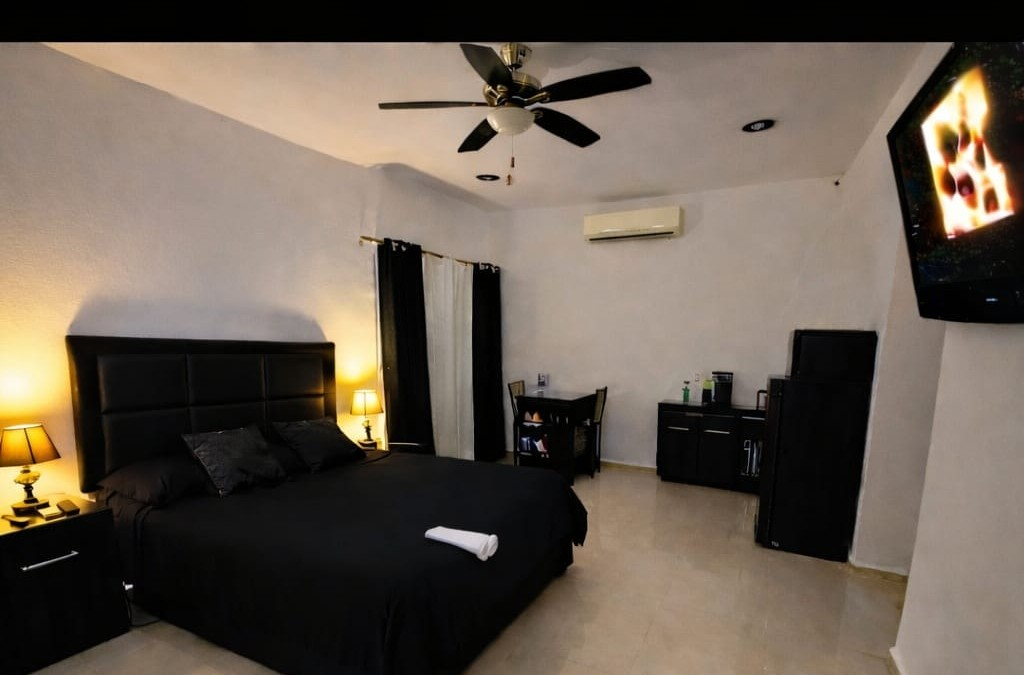
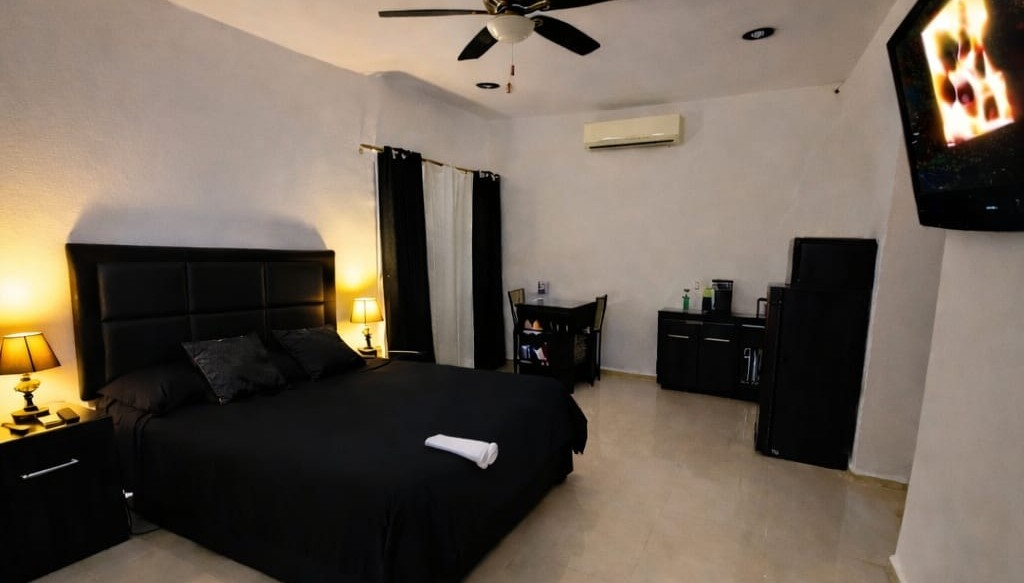
Add brand divider separator, fix depa-51 crop, rename to Davish's House
- Extracted X-cross divider from logo PDF as section separator
- Added divider between all major sections
- Re-cropped depa-51 to remove black bar
- Renamed all instances to "Davish's House"
- Added company motto "IS NEVER WRONG"

diff --git a/site/index.html b/site/index.html
@@ -11,10 +11,10 @@
     </script>
     <meta charset="UTF-8">
     <meta name="viewport" content="width=device-width, initial-scale=1.0">
-    <title>Davish House Apartments | Departamentos Amueblados en Merida, Yucatan | Renta Sin Deposito</title>
+    <title>Davish's House Apartments | Departamentos Amueblados en Merida, Yucatan | Renta Sin Deposito</title>
     <meta name="description" content="Departamentos amueblados en Merida, Yucatan. Sin deposito, sin aval. Renta por horas, dias o meses en La Florida, Merida. Netflix, WiFi, AC incluidos. Furnished apartments in Merida, Yucatan, Mexico.">
-    <meta name="keywords" content="departamentos amueblados Merida, renta departamentos Merida Yucatan, apartments Merida, furnished apartments Yucatan, renta sin deposito Merida, departamentos equipados Merida, Davish House, alquiler Merida, short term rental Merida, renta por dia Merida, Mérida Yucatán, departamentos La Florida Merida, renta mensual Merida, hospedaje Merida Yucatan, departamento amueblado sin aval Merida, renta temporal Merida, suites amuebladas Merida, departamentos con Netflix Merida, alojamiento Merida centro, renta cuartos Merida">
-    <meta name="author" content="Davish House Apartments - Merida, Yucatan">
+    <meta name="keywords" content="departamentos amueblados Merida, renta departamentos Merida Yucatan, apartments Merida, furnished apartments Yucatan, renta sin deposito Merida, departamentos equipados Merida, Davish's House, alquiler Merida, short term rental Merida, renta por dia Merida, Mérida Yucatán, departamentos La Florida Merida, renta mensual Merida, hospedaje Merida Yucatan, departamento amueblado sin aval Merida, renta temporal Merida, suites amuebladas Merida, departamentos con Netflix Merida, alojamiento Merida centro, renta cuartos Merida">
+    <meta name="author" content="Davish's House Apartments - Merida, Yucatan">
     <meta name="robots" content="index, follow">
     <meta name="geo.region" content="MX-YUC">
     <meta name="geo.placename" content="Merida, Yucatan">
@@ -36,15 +36,15 @@
     <link rel="alternate" hreflang="x-default" href="https://davish.pro/">
 
     <!-- Open Graph -->
-    <meta property="og:title" content="Davish House Apartments | Departamentos Amueblados en Merida, Yucatan">
+    <meta property="og:title" content="Davish's House Apartments | Departamentos Amueblados en Merida, Yucatan">
     <meta property="og:description" content="Departamentos amueblados y equipados en Merida, Yucatan. Sin deposito, sin aval. Renta por horas, dias o meses con Netflix y WiFi incluido.">
     <meta property="og:type" content="website">
     <meta property="og:url" content="https://davish.pro/">
     <meta property="og:image" content="https://davish.pro/img/header.png">
-    <meta property="og:image:alt" content="Davish House Apartments - Departamentos amueblados en Merida, Yucatan">
+    <meta property="og:image:alt" content="Davish's House Apartments - Departamentos amueblados en Merida, Yucatan">
     <meta property="og:image:width" content="1200">
     <meta property="og:image:height" content="630">
-    <meta property="og:site_name" content="Davish House Apartments">
+    <meta property="og:site_name" content="Davish's House Apartments">
     <meta property="og:locale" content="es_MX">
     <meta property="og:locale:alternate" content="en_US">
     <meta property="og:locale:alternate" content="de_DE">
@@ -53,7 +53,7 @@
 
     <!-- Twitter Card -->
     <meta name="twitter:card" content="summary_large_image">
-    <meta name="twitter:title" content="Davish House Apartments | Merida, Yucatan">
+    <meta name="twitter:title" content="Davish's House Apartments | Merida, Yucatan">
     <meta name="twitter:description" content="Departamentos amueblados en Merida, Yucatan. Sin deposito, sin aval. Renta por horas, dias o meses.">
     <meta name="twitter:image" content="https://davish.pro/img/header.png">
 
@@ -62,7 +62,7 @@
     {
         "@context": "https://schema.org",
         "@type": "LodgingBusiness",
-        "name": "Davish House Apartments",
+        "name": "Davish's House Apartments",
         "alternateName": "Davish's House Apartment La Florida Merida",
         "description": "Departamentos amueblados y equipados en Merida, Yucatan, Mexico. Sin deposito, sin aval. Renta por horas, dias o meses. Netflix, WiFi, aire acondicionado incluidos.",
         "url": "https://davish.pro",
@@ -275,6 +275,16 @@
             color: #aaa;
             font-size: 1.05rem;
             line-height: 1.7;
+        }
+
+        /* Divider */
+        .section-divider {
+            display: block;
+            margin: 0 auto;
+            width: 220px;
+            height: auto;
+            opacity: 0.7;
+            padding: 10px 0;
         }
 
         /* Section titles */
@@ -750,7 +760,7 @@
     <section class="hero">
         <div class="container">
             <div class="hero-content">
-                <h1>Davish House Apartments <span style="display:block;font-size:0.45em;letter-spacing:1px;color:#ccc;font-weight:400;margin-top:8px;">Merida, Yucatan, Mexico</span></h1>
+                <h1>Davish's House Apartments <span style="display:block;font-size:0.45em;letter-spacing:1px;color:#ccc;font-weight:400;margin-top:8px;">Merida, Yucatan, Mexico</span><span style="display:block;font-size:0.3em;letter-spacing:2px;color:var(--gold);font-weight:600;margin-top:6px;font-style:italic;">IS NEVER WRONG</span></h1>
                 <p data-i18n="hero_subtitle">Departamentos amueblados y equipados en Merida, Yucatan. Tu nuevo hogar sin complicaciones.</p>
                 <div class="badge-features">
                     <span><i class="bi bi-shield-check"></i> <span data-i18n="badge_deposit">Sin Deposito</span></span>
@@ -770,6 +780,7 @@
         </div>
     </section>
 
+    <img src="img/divider.png" class="section-divider" alt="">
     <!-- About Owner -->
     <section id="sobre-mi" class="about-owner">
         <div class="container">
@@ -789,6 +800,7 @@
         </div>
     </section>
 
+    <img src="img/divider.png" class="section-divider" alt="">
     <!-- Apartments -->
     <section id="departamentos">
         <div class="section-title">
@@ -803,7 +815,7 @@
                 <!-- Depa #51 -->
                 <div class="col-lg-4 col-md-6">
                     <div class="depa-card">
-                        <img src="img/depa-51.jpg" class="card-img-top" alt="Departamento 51 amueblado en Merida Yucatan - Davish House">
+                        <img src="img/depa-51.jpg" class="card-img-top" alt="Departamento 51 amueblado en Merida Yucatan - Davish's House">
                         <div class="card-body">
                             <div class="depa-number"><span data-i18n="depa_label">Departamento</span> #51</div>
                             <div class="amenities">
@@ -838,7 +850,7 @@
                 <!-- Depa #52 -->
                 <div class="col-lg-4 col-md-6">
                     <div class="depa-card">
-                        <img src="img/depa-52.jpg" class="card-img-top" alt="Departamento 52 con Netflix en Merida Yucatan - Davish House">
+                        <img src="img/depa-52.jpg" class="card-img-top" alt="Departamento 52 con Netflix en Merida Yucatan - Davish's House">
                         <div class="card-body">
                             <div class="depa-number"><span data-i18n="depa_label">Departamento</span> #52</div>
                             <div class="amenities">
@@ -874,7 +886,7 @@
                 <!-- Depa #53 -->
                 <div class="col-lg-4 col-md-6">
                     <div class="depa-card">
-                        <img src="img/depa-53.jpg" class="card-img-top" alt="Departamento 53 amueblado en Merida Yucatan - Davish House">
+                        <img src="img/depa-53.jpg" class="card-img-top" alt="Departamento 53 amueblado en Merida Yucatan - Davish's House">
                         <div class="card-body">
                             <div class="depa-number"><span data-i18n="depa_label">Departamento</span> #53</div>
                             <div class="amenities">
@@ -909,7 +921,7 @@
                 <!-- Depa #54 -->
                 <div class="col-lg-4 col-md-6">
                     <div class="depa-card">
-                        <img src="img/depa-54.jpg" class="card-img-top" alt="Departamento 54 con cocina en Merida Yucatan - Davish House">
+                        <img src="img/depa-54.jpg" class="card-img-top" alt="Departamento 54 con cocina en Merida Yucatan - Davish's House">
                         <div class="card-body">
                             <div class="depa-number"><span data-i18n="depa_label">Departamento</span> #54</div>
                             <div class="amenities">
@@ -945,7 +957,7 @@
                 <!-- Depa #57 -->
                 <div class="col-lg-4 col-md-6">
                     <div class="depa-card">
-                        <img src="img/depa-57.jpg" class="card-img-top" alt="Departamento 57 dos camas en Merida Yucatan - Davish House">
+                        <img src="img/depa-57.jpg" class="card-img-top" alt="Departamento 57 dos camas en Merida Yucatan - Davish's House">
                         <div class="card-body">
                             <div class="depa-number"><span data-i18n="depa_label">Departamento</span> #57</div>
                             <div class="amenities">
@@ -981,7 +993,7 @@
                 <!-- Depa #58 -->
                 <div class="col-lg-4 col-md-6">
                     <div class="depa-card">
-                        <img src="img/depa-58.jpg" class="card-img-top" alt="Departamento 58 con cocineta en Merida Yucatan - Davish House">
+                        <img src="img/depa-58.jpg" class="card-img-top" alt="Departamento 58 con cocineta en Merida Yucatan - Davish's House">
                         <div class="card-body">
                             <div class="depa-number"><span data-i18n="depa_label">Departamento</span> #58</div>
                             <div class="amenities">
@@ -1016,7 +1028,7 @@
                 <!-- Depa #59 -->
                 <div class="col-lg-4 col-md-6">
                     <div class="depa-card">
-                        <img src="img/depa-59.jpg" class="card-img-top" alt="Departamento 59 con Netflix en Merida Yucatan - Davish House">
+                        <img src="img/depa-59.jpg" class="card-img-top" alt="Departamento 59 con Netflix en Merida Yucatan - Davish's House">
                         <div class="card-body">
                             <div class="depa-number"><span data-i18n="depa_label">Departamento</span> #59</div>
                             <div class="amenities">
@@ -1051,7 +1063,7 @@
                 <!-- Depa #64 -->
                 <div class="col-lg-4 col-md-6">
                     <div class="depa-card">
-                        <img src="img/depa-64.jpg" class="card-img-top" alt="Departamento 64 amueblado en Merida Yucatan - Davish House">
+                        <img src="img/depa-64.jpg" class="card-img-top" alt="Departamento 64 amueblado en Merida Yucatan - Davish's House">
                         <div class="card-body">
                             <div class="depa-number"><span data-i18n="depa_label">Departamento</span> #64</div>
                             <div class="amenities">
@@ -1087,6 +1099,7 @@
         </div>
     </section>
 
+    <img src="img/divider.png" class="section-divider" alt="">
     <!-- Features -->
     <section id="beneficios" class="features">
         <div class="container">
@@ -1127,6 +1140,7 @@
         </div>
     </section>
 
+    <img src="img/divider.png" class="section-divider" alt="">
     <!-- Policies -->
     <section class="policies-section">
         <div class="container">
@@ -1162,6 +1176,7 @@
         </div>
     </section>
 
+    <img src="img/divider.png" class="section-divider" alt="">
     <!-- Location -->
     <section id="ubicacion" class="location-section">
         <div class="container">
@@ -1181,6 +1196,7 @@
         </div>
     </section>
 
+    <img src="img/divider.png" class="section-divider" alt="">
     <!-- CTA -->
     <section id="reservar" class="cta-section">
         <div class="container">
@@ -1199,7 +1215,7 @@
             <a href="https://www.instagram.com/davishshouse" target="_blank" style="color:var(--gold);font-size:1.5rem;margin:0 10px;" title="Instagram"><i class="bi bi-instagram"></i></a>
             <a href="https://wa.me/529993982548" target="_blank" style="color:var(--gold);font-size:1.5rem;margin:0 10px;" title="WhatsApp"><i class="bi bi-whatsapp"></i></a>
         </p>
-        <p>&copy; 2026 Davish House Apartments. <span data-i18n="footer_rights">Todos los derechos reservados.</span></p>
+        <p>&copy; 2026 Davish's House Apartments. <span data-i18n="footer_rights">Todos los derechos reservados.</span></p>
     </footer>
 
     <!-- Back to Top -->
@@ -1238,7 +1254,7 @@
                 hero_cta: 'Reserva por WhatsApp',
                 catalog_btn: 'Ver Catalogo',
                 owner_role: 'Fundador & Propietario',
-                owner_bio: 'Bienvenido a Davish House Apartments. Me dedico a ofrecer departamentos de calidad, completamente amueblados y equipados, para que te sientas como en casa desde el primer dia. Sin deposito, sin aval, sin complicaciones \u2014 asi de simple. Cada departamento cuenta con Smart TV con Netflix, WiFi, y todo lo que necesitas para una estancia comoda.',
+                owner_bio: 'Bienvenido a Davish's House Apartments. Me dedico a ofrecer departamentos de calidad, completamente amueblados y equipados, para que te sientas como en casa desde el primer dia. Sin deposito, sin aval, sin complicaciones \u2014 asi de simple. Cada departamento cuenta con Smart TV con Netflix, WiFi, y todo lo que necesitas para una estancia comoda.',
                 owner_cta: 'Habla conmigo directo',
                 section_apartments: 'Nuestros Departamentos',
                 section_apartments_sub: 'Elige el que mejor se adapte a tus necesidades',
@@ -1287,9 +1303,9 @@
                 location_title: 'Ubicacion',
                 location_map: 'Ver en Google Maps',
                 footer_rights: 'Todos los derechos reservados.',
-                wa_general: 'Hola, me interesa rentar un departamento en Davish House Apartments en Merida. \u00bfMe podrian dar mas informacion?',
-                wa_owner: 'Hola Alejandro, me interesa rentar un departamento en Davish House Apartments en Merida. \u00bfMe podrias dar mas informacion?',
-                wa_depa: 'Hola, me interesa el Departamento #{n} en Davish House Apartments, Merida. \u00bfEsta disponible?'
+                wa_general: 'Hola, me interesa rentar un departamento en Davish's House Apartments en Merida. \u00bfMe podrian dar mas informacion?',
+                wa_owner: 'Hola Alejandro, me interesa rentar un departamento en Davish's House Apartments en Merida. \u00bfMe podrias dar mas informacion?',
+                wa_depa: 'Hola, me interesa el Departamento #{n} en Davish's House Apartments, Merida. \u00bfEsta disponible?'
             },
             en: {
                 nav_about: 'About Me',
@@ -1354,9 +1370,9 @@
                 location_title: 'Location',
                 location_map: 'View on Google Maps',
                 footer_rights: 'All rights reserved.',
-                wa_general: 'Hi, I\'m interested in renting an apartment at Davish House Apartments in Merida. Could you give me more information?',
-                wa_owner: 'Hi Alejandro, I\'m interested in renting an apartment at Davish House Apartments in Merida. Could you give me more information?',
-                wa_depa: 'Hi, I\'m interested in Apartment #{n} at Davish House Apartments, Merida. Is it available?'
+                wa_general: 'Hi, I\'m interested in renting an apartment at Davish's House Apartments in Merida. Could you give me more information?',
+                wa_owner: 'Hi Alejandro, I\'m interested in renting an apartment at Davish's House Apartments in Merida. Could you give me more information?',
+                wa_depa: 'Hi, I\'m interested in Apartment #{n} at Davish's House Apartments, Merida. Is it available?'
             },
             de: {
                 nav_about: '\u00dcber Mich',
@@ -1370,7 +1386,7 @@
                 hero_cta: '\u00dcber WhatsApp buchen',
                 catalog_btn: 'Katalog ansehen',
                 owner_role: 'Gr\u00fcnder & Eigent\u00fcmer',
-                owner_bio: 'Willkommen bei Davish House Apartments. Ich widme mich dem Angebot von hochwertigen Wohnungen, komplett m\u00f6bliert und ausgestattet, damit du dich vom ersten Tag an wie zu Hause f\u00fchlst. Keine Kaution, kein B\u00fcrge, keine Komplikationen \u2014 so einfach ist das. Jede Wohnung verf\u00fcgt \u00fcber einen Smart TV mit Netflix, WLAN und alles, was du f\u00fcr einen komfortablen Aufenthalt brauchst.',
+                owner_bio: 'Willkommen bei Davish's House Apartments. Ich widme mich dem Angebot von hochwertigen Wohnungen, komplett m\u00f6bliert und ausgestattet, damit du dich vom ersten Tag an wie zu Hause f\u00fchlst. Keine Kaution, kein B\u00fcrge, keine Komplikationen \u2014 so einfach ist das. Jede Wohnung verf\u00fcgt \u00fcber einen Smart TV mit Netflix, WLAN und alles, was du f\u00fcr einen komfortablen Aufenthalt brauchst.',
                 owner_cta: 'Sprich direkt mit mir',
                 section_apartments: 'Unsere Wohnungen',
                 section_apartments_sub: 'W\u00e4hle die Wohnung, die am besten zu dir passt',
@@ -1421,9 +1437,9 @@
                 location_title: 'Standort',
                 location_map: 'Auf Google Maps ansehen',
                 footer_rights: 'Alle Rechte vorbehalten.',
-                wa_general: 'Hallo, ich interessiere mich f\u00fcr eine Wohnung bei Davish House Apartments in Merida. K\u00f6nnten Sie mir mehr Informationen geben?',
-                wa_owner: 'Hallo Alejandro, ich interessiere mich f\u00fcr eine Wohnung bei Davish House Apartments in Merida. K\u00f6nntest du mir mehr Informationen geben?',
-                wa_depa: 'Hallo, ich interessiere mich f\u00fcr Wohnung #{n} bei Davish House Apartments, Merida. Ist sie verf\u00fcgbar?'
+                wa_general: 'Hallo, ich interessiere mich f\u00fcr eine Wohnung bei Davish's House Apartments in Merida. K\u00f6nnten Sie mir mehr Informationen geben?',
+                wa_owner: 'Hallo Alejandro, ich interessiere mich f\u00fcr eine Wohnung bei Davish's House Apartments in Merida. K\u00f6nntest du mir mehr Informationen geben?',
+                wa_depa: 'Hallo, ich interessiere mich f\u00fcr Wohnung #{n} bei Davish's House Apartments, Merida. Ist sie verf\u00fcgbar?'
             },
             it: {
                 nav_about: 'Chi Sono',
@@ -1437,7 +1453,7 @@
                 hero_cta: 'Prenota via WhatsApp',
                 catalog_btn: 'Vedi Catalogo',
                 owner_role: 'Fondatore & Proprietario',
-                owner_bio: 'Benvenuto a Davish House Apartments. Mi dedico ad offrire appartamenti di qualit\u00e0, completamente arredati e attrezzati, per farti sentire a casa dal primo giorno. Senza deposito, senza garante, senza complicazioni \u2014 \u00e8 cos\u00ec semplice. Ogni appartamento dispone di Smart TV con Netflix, WiFi e tutto ci\u00f2 di cui hai bisogno per un soggiorno confortevole.',
+                owner_bio: 'Benvenuto a Davish's House Apartments. Mi dedico ad offrire appartamenti di qualit\u00e0, completamente arredati e attrezzati, per farti sentire a casa dal primo giorno. Senza deposito, senza garante, senza complicazioni \u2014 \u00e8 cos\u00ec semplice. Ogni appartamento dispone di Smart TV con Netflix, WiFi e tutto ci\u00f2 di cui hai bisogno per un soggiorno confortevole.',
                 owner_cta: 'Parla direttamente con me',
                 section_apartments: 'I Nostri Appartamenti',
                 section_apartments_sub: 'Scegli quello che meglio si adatta alle tue esigenze',
@@ -1488,9 +1504,9 @@
                 location_title: 'Posizione',
                 location_map: 'Vedi su Google Maps',
                 footer_rights: 'Tutti i diritti riservati.',
-                wa_general: 'Ciao, sono interessato ad affittare un appartamento a Davish House Apartments a Merida. Potreste darmi maggiori informazioni?',
-                wa_owner: 'Ciao Alejandro, sono interessato ad affittare un appartamento a Davish House Apartments a Merida. Potresti darmi maggiori informazioni?',
-                wa_depa: 'Ciao, sono interessato all\'Appartamento #{n} a Davish House Apartments, Merida. \u00c8 disponibile?'
+                wa_general: 'Ciao, sono interessato ad affittare un appartamento a Davish's House Apartments a Merida. Potreste darmi maggiori informazioni?',
+                wa_owner: 'Ciao Alejandro, sono interessato ad affittare un appartamento a Davish's House Apartments a Merida. Potresti darmi maggiori informazioni?',
+                wa_depa: 'Ciao, sono interessato all\'Appartamento #{n} a Davish's House Apartments, Merida. \u00c8 disponibile?'
             },
             pt: {
                 nav_about: 'Sobre Mim',
@@ -1504,7 +1520,7 @@
                 hero_cta: 'Reserve pelo WhatsApp',
                 catalog_btn: 'Ver Cat\u00e1logo',
                 owner_role: 'Fundador & Propriet\u00e1rio',
-                owner_bio: 'Bem-vindo ao Davish House Apartments. Dedico-me a oferecer apartamentos de qualidade, completamente mobiliados e equipados, para que voc\u00ea se sinta em casa desde o primeiro dia. Sem dep\u00f3sito, sem fiador, sem complica\u00e7\u00f5es \u2014 simples assim. Cada apartamento conta com Smart TV com Netflix, WiFi e tudo o que voc\u00ea precisa para uma estadia confort\u00e1vel.',
+                owner_bio: 'Bem-vindo ao Davish's House Apartments. Dedico-me a oferecer apartamentos de qualidade, completamente mobiliados e equipados, para que voc\u00ea se sinta em casa desde o primeiro dia. Sem dep\u00f3sito, sem fiador, sem complica\u00e7\u00f5es \u2014 simples assim. Cada apartamento conta com Smart TV com Netflix, WiFi e tudo o que voc\u00ea precisa para uma estadia confort\u00e1vel.',
                 owner_cta: 'Fale comigo diretamente',
                 section_apartments: 'Nossos Apartamentos',
                 section_apartments_sub: 'Escolha o que melhor se adapta \u00e0s suas necessidades',
@@ -1555,9 +1571,9 @@
                 location_title: 'Localiza\u00e7\u00e3o',
                 location_map: 'Ver no Google Maps',
                 footer_rights: 'Todos os direitos reservados.',
-                wa_general: 'Ol\u00e1, tenho interesse em alugar um apartamento no Davish House Apartments em Merida. Poderiam me dar mais informa\u00e7\u00f5es?',
-                wa_owner: 'Ol\u00e1 Alejandro, tenho interesse em alugar um apartamento no Davish House Apartments em Merida. Poderia me dar mais informa\u00e7\u00f5es?',
-                wa_depa: 'Ol\u00e1, tenho interesse no Apartamento #{n} no Davish House Apartments, Merida. Est\u00e1 dispon\u00edvel?'
+                wa_general: 'Ol\u00e1, tenho interesse em alugar um apartamento no Davish's House Apartments em Merida. Poderiam me dar mais informa\u00e7\u00f5es?',
+                wa_owner: 'Ol\u00e1 Alejandro, tenho interesse em alugar um apartamento no Davish's House Apartments em Merida. Poderia me dar mais informa\u00e7\u00f5es?',
+                wa_depa: 'Ol\u00e1, tenho interesse no Apartamento #{n} no Davish's House Apartments, Merida. Est\u00e1 dispon\u00edvel?'
             }
         };
 
